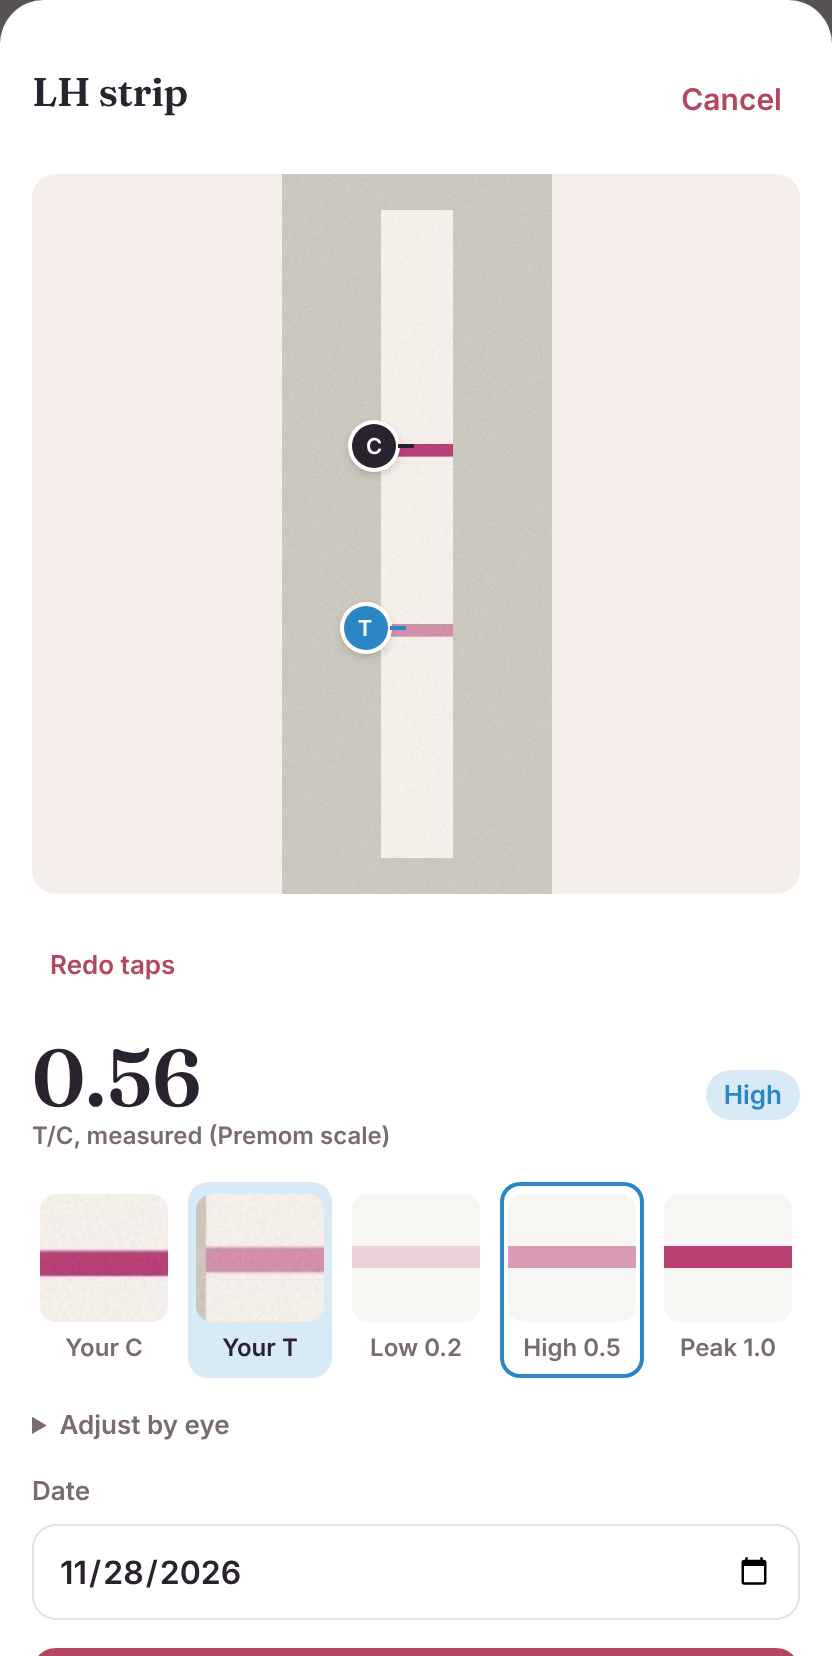
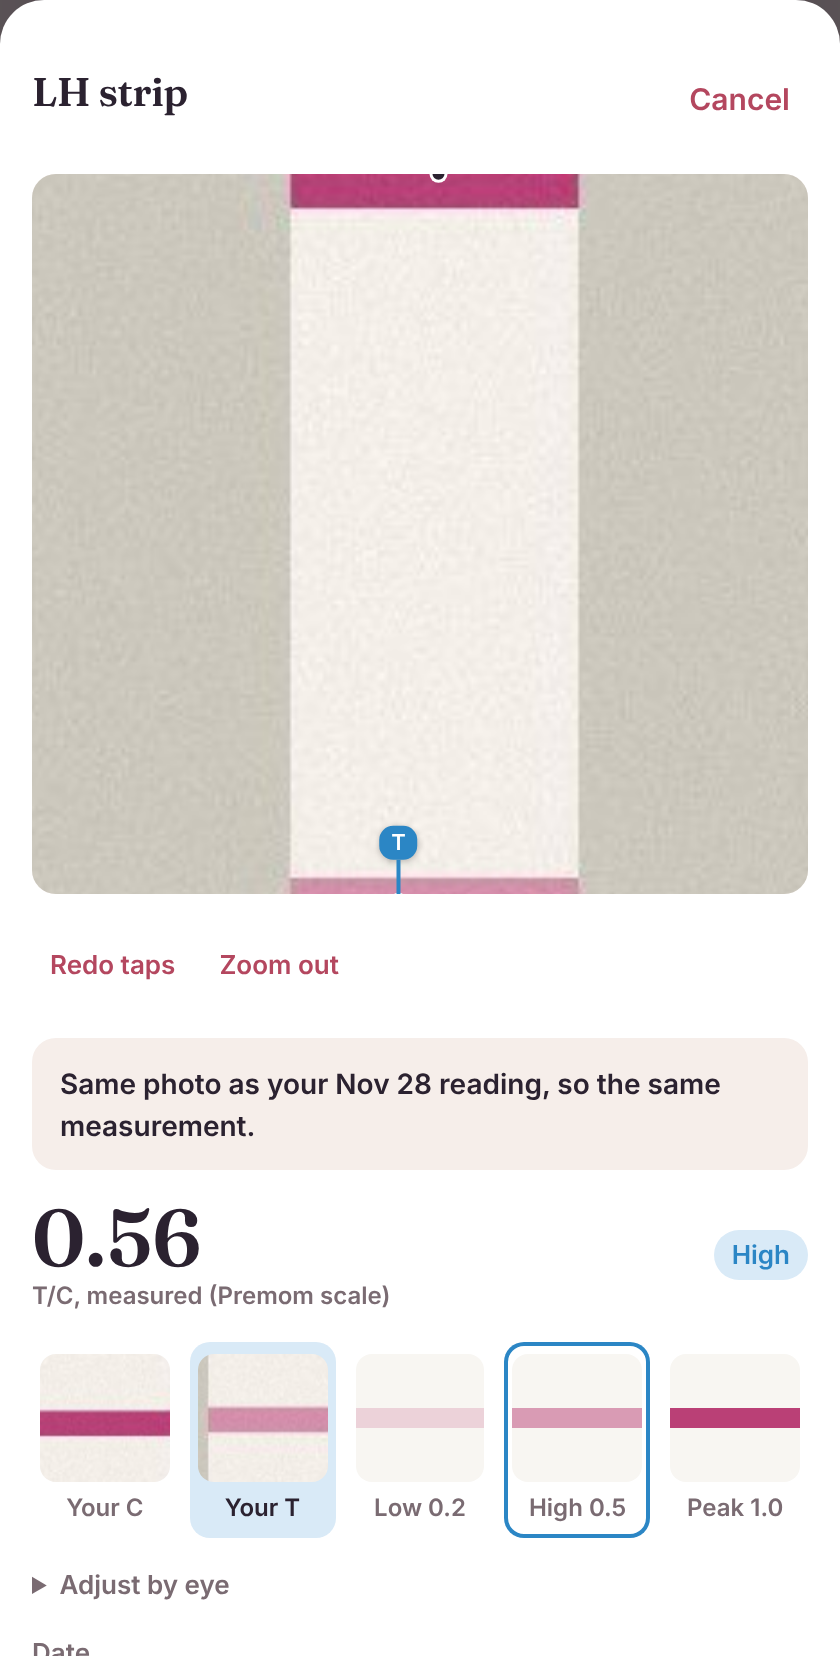
Strip reader: zoom in first, then drop pins on C and T
On real strips the two lines are only millimeters apart, so the old circle
marker covered the test line while placing it.

- The first tap zooms 4× around the result window; then tap C, then T.
  "Zoom out" and "Redo taps" are there if a tap lands wrong. A photo seen
  before reopens zoomed on its saved taps.
- Markers are pins: a small dot on the exact point, a thin stem, and the
  C / T label above it. They keep their size when zoomed.
- The Premom Low / High / Peak reference lines are drawn in the same
  direction as the strip's own lines.

Claude-Session: https://claude.ai/code/session_01Xwp7ohnQVzwuy77DDpBEmc

diff --git a/src/components/LhUpload.tsx b/src/components/LhUpload.tsx
@@ -78,6 +78,8 @@ function LhSheet({ photo, defaultDate, onClose, onSaved }: { photo: string | nul
   const { reload, refreshPrediction } = useStore();
   const [date, setDate] = useState(defaultDate);
   const [taps, setTaps] = useState<{ c?: Point; t?: Point }>({});
+  /** Zoomed in on the result window (first tap), so the two lines are far apart on screen. */
+  const [zoom, setZoom] = useState<Point | null>(null);
   const [ratio, setRatio] = useState(0.3);
   const [level, setLevel] = useState<LhLevel>("low");
   const [adjusted, setAdjusted] = useState(false);
@@ -96,6 +98,7 @@ function LhSheet({ photo, defaultDate, onClose, onSaved }: { photo: string | nul
         const { match } = await api.lhByHash(h);
         if (match?.taps) {
           setTaps({ c: match.taps.c, t: match.taps.t });
+          setZoom({ x: (match.taps.c.x + match.taps.t.x) / 2, y: (match.taps.c.y + match.taps.t.y) / 2 });
           setSeenBefore({ date: match.date, ratio: match.ratio });
         }
       } catch {
@@ -124,6 +127,10 @@ function LhSheet({ photo, defaultDate, onClose, onSaved }: { photo: string | nul
     const r = img.getBoundingClientRect();
     if (e.clientX < r.left || e.clientX > r.right || e.clientY < r.top || e.clientY > r.bottom) return;
     const p = { x: Math.round(((e.clientX - r.left) / r.width) * pixels.data.width), y: Math.round(((e.clientY - r.top) / r.height) * pixels.data.height) };
+    if (!zoom) {
+      setZoom(p);
+      return;
+    }
     setAdjusted(false);
     setSeenBefore(null);
     setTaps((cur) => (!cur.c || cur.t ? { c: p } : { ...cur, t: p }));
@@ -146,7 +153,17 @@ function LhSheet({ photo, defaultDate, onClose, onSaved }: { photo: string | nul
     }
   };
 
-  const step = !taps.c ? "Tap the control line (C)" : !taps.t ? "Now tap the test line (T)" : null;
+  const step = !zoom ? "Tap the result window to zoom in" : !taps.c ? "Tap the control line (C)" : !taps.t ? "Now tap the test line (T)" : null;
+  const Z = 4;
+  const zoomStyle = zoom && pixels
+    ? { transform: `scale(${Z})`, transformOrigin: `${(zoom.x / pixels.data.width) * 100}% ${(zoom.y / pixels.data.height) * 100}%` }
+    : undefined;
+  // A pin: a small dot right on the point, a thin stem, and the label above. Same size when zoomed.
+  const mark = (p: Point, kind: "c" | "t") => (
+    <span className={`strip-pin ${kind}`} style={{ ...pct(p), transform: `scale(${zoom ? 1 / Z : 1})` }}>
+      <b>{kind.toUpperCase()}</b>
+    </span>
+  );
   const pct = (p: Point) => pixels ? { left: `${(p.x / pixels.data.width) * 100}%`, top: `${(p.y / pixels.data.height) * 100}%` } : {};
 
   return (
@@ -159,16 +176,18 @@ function LhSheet({ photo, defaultDate, onClose, onSaved }: { photo: string | nul
 
         {photo && (
           <>
-            <div className="strip-stage" onClick={tap} role="button" aria-label="Tap the control line, then the test line">
-              <div className="strip-photo-box">
+            <div className="strip-stage" onClick={tap} role="button" aria-label="Tap the result window, then the control line, then the test line">
+              <div className="strip-photo-box" style={zoomStyle}>
                 <img src={photo} alt="Your LH strip" draggable={false} />
-                {m && <span className="strip-mark c" style={pct(m.controlAt)}>C</span>}
-                {m && <span className="strip-mark t" style={pct(m.testAt)}>T</span>}
-                {!m && taps.c && <span className="strip-mark c" style={pct(taps.c)}>C</span>}
+                {m ? <>{mark(m.controlAt, "c")}{mark(m.testAt, "t")}</> : taps.c && mark(taps.c, "c")}
               </div>
             </div>
-            {step ? <div className="strip-step">{step}</div> : (
-              <button className="btn ghost small" style={{ alignSelf: "flex-start" }} onClick={() => { setTaps({}); setSeenBefore(null); }}>Redo taps</button>
+            {step && <div className="strip-step">{step}</div>}
+            {(zoom || taps.c) && (
+              <div className="row" style={{ gap: 4 }}>
+                {taps.c && <button className="btn ghost small" onClick={() => { setTaps({}); setSeenBefore(null); }}>Redo taps</button>}
+                {zoom && <button className="btn ghost small" onClick={() => { setZoom(null); setTaps({}); setSeenBefore(null); }}>Zoom out</button>}
+              </div>
             )}
           </>
         )}
@@ -240,6 +259,8 @@ function Benchmark({ m, el }: { m: StripMeasurement; el: HTMLImageElement }) {
     return c.toDataURL("image/png");
   };
   const [cImg, tImg] = useMemo(() => [crop(m.controlAt), crop(m.testAt)], [m, el]); // eslint-disable-line react-hooks/exhaustive-deps
+  // Lines run across the strip: if C → T goes sideways, the lines stand upright.
+  const vertical = Math.abs(m.testAt.x - m.controlAt.x) > Math.abs(m.testAt.y - m.controlAt.y);
   // A reference line at k × the control's darkness, on clean paper.
   const ref = (k: number) => {
     const paper = [248, 246, 242];
@@ -252,7 +273,7 @@ function Benchmark({ m, el }: { m: StripMeasurement; el: HTMLImageElement }) {
       <div className="bench-item you"><img src={tImg} alt="Your test line" /><span className="tiny"><b>Your T</b></span></div>
       {([["Low", 0.2], ["High", 0.5], ["Peak", 1.0]] as const).map(([name, k]) => (
         <div key={name} className={`bench-item${levelForRatio(m.ratio) === name.toLowerCase() ? " match" : ""}`}>
-          <span className="bench-ref"><i style={{ background: ref(k) }} /></span>
+          <span className={`bench-ref${vertical ? " vert" : ""}`}><i style={{ background: ref(k) }} /></span>
           <span className="tiny muted">{name} {k.toFixed(1)}</span>
         </div>
       ))}

diff --git a/src/styles.css b/src/styles.css
@@ -932,3 +932,17 @@ i.ld-pending { background: transparent; box-shadow: inset 0 0 0 1.5px var(--mute
 /* Sit beside the line, pointing at it, so the line itself stays visible. */
 .strip-mark { width: 22px; height: 22px; font-size: 11px; transform: translate(calc(-100% - 10px), -50%); }
 .strip-mark::after { content: ""; position: absolute; right: -9px; top: 50%; width: 8px; height: 2px; background: inherit; transform: translateY(-50%); }
+/* Zoomable strip photo with thin ring markers. */
+.strip-photo-box { transition: transform 0.2s ease; }
+.strip-ring { position: absolute; width: 14px; height: 14px; border-radius: 50%; border: 2px solid #fff; box-shadow: 0 0 0 1.5px var(--ink); pointer-events: none; }
+.strip-ring.t { box-shadow: 0 0 0 1.5px var(--fertile); }
+.strip-ring b { position: absolute; left: calc(100% + 6px); top: 50%; transform: translateY(-50%); font-size: 11px; line-height: 1; padding: 2px 5px; border-radius: 6px; color: #fff; background: var(--ink); }
+.strip-ring.t b { background: var(--fertile); }
+/* Pin markers: the dot is the exact point; the stem and label rise above it. */
+.strip-pin { position: absolute; width: 0; height: 0; pointer-events: none; transform-origin: 0 0; }
+.strip-pin::before { content: ""; position: absolute; left: -3px; top: -3px; width: 6px; height: 6px; border-radius: 50%; background: var(--ink); box-shadow: 0 0 0 1.5px #fff; }
+.strip-pin::after { content: ""; position: absolute; left: -1px; bottom: 3px; width: 2px; height: 18px; background: var(--ink); }
+.strip-pin b { position: absolute; left: 0; bottom: 21px; transform: translateX(-50%); font-size: 11px; line-height: 1; padding: 3px 6px; border-radius: 7px; color: #fff; background: var(--ink); box-shadow: 0 1px 3px rgb(0 0 0 / 0.25); }
+.strip-pin.t::before, .strip-pin.t::after, .strip-pin.t b { background: var(--fertile); }
+.bench-ref.vert { justify-items: center; align-items: stretch; }
+.bench-ref.vert i { width: 16%; height: 100%; }

diff --git a/README.md b/README.md
@@ -10,7 +10,7 @@ No ads, no pop-ups, no notifications. You log in on your phone or computer and s
 - **A quiet two-week wait** (on by default): no days-past-ovulation countdown, just "your part is done" and your test date. Turn it off in Settings.
 - **A daily note** for where you are in your cycle: what to expect, superpowers, watch-outs, self-care, and a trying-to-conceive focus. There's also a short personal line written by AI from yesterday's log, your signals and today's invitation.
 - **A quick check-in** for yesterday or today: flow, ♥ intercourse, cervical mucus, symptoms and mood. Every tap saves.
-- **LH strip reading, measured:** snap a photo, tap the control line and then the test line, and Bloom measures **Premom's T/C ratio** from the pixels (Low < 0.5, High 0.5–0.99, Peak ≥ 1.0): how much darker each line is than the strip's own background, in the color channel the dye absorbs, test ÷ control (`shared/stripMeasure.ts`). It's arithmetic, so the same photo always gives the same number; taps a few pixels off land on the same line; and a photo seen before returns its saved reading. Your C and T lines show next to Premom's Low / High / Peak drawn in your control line's color, so you can check it by eye. A control line too faint to measure gets a "retake in better light" instead of a guess.
+- **LH strip reading, measured:** snap a photo, tap the result window to zoom in, then pin the control line and the test line, and Bloom measures **Premom's T/C ratio** from the pixels (Low < 0.5, High 0.5–0.99, Peak ≥ 1.0): how much darker each line is than the strip's own background, in the color channel the dye absorbs, test ÷ control (`shared/stripMeasure.ts`). It's arithmetic, so the same photo always gives the same number; taps a few pixels off land on the same line; and a photo seen before returns its saved reading. Your C and T lines show next to Premom's Low / High / Peak drawn in your control line's color, so you can check it by eye. A control line too faint to measure gets a "retake in better light" instead of a guess.
 - **Calendar, insights and an LH curve:** period, fertile window, ovulation (LH-confirmed, temperature-confirmed or estimated), ♥ days, and cycle history.
 - **A step-by-step import of your Clue and Premom history**, so predictions are smart from day one. You can undo it at any time.
 
